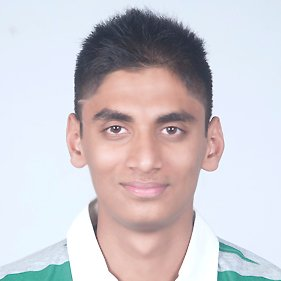
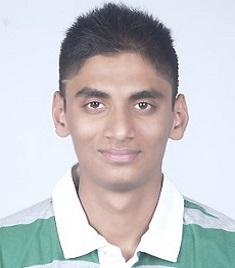
team updated

diff --git a/team.html b/team.html
@@ -205,7 +205,7 @@
                     <div class="col-lg-3 col-md-3 col-sm-3">
                         <h3>Vishal Aditya</h3>
                         <figure class="caption cs-style-6">
-                            <a href="https://in.linkedin.com/in/vslcreations" target="_blank"><img src="img/vishal.jpg" alt="Vishal Aditya" width="281" height="auto"></a>
+                            <a href="https://in.linkedin.com/in/vslcreations" target="_blank"><img src="img/vishal.jpg" alt="Vishal Aditya" height="auto"></a>
                             <figcaption>
                                 <h3>Vishal Aditya</h3>
                                 <span>CSE(8th SEM)</span>
